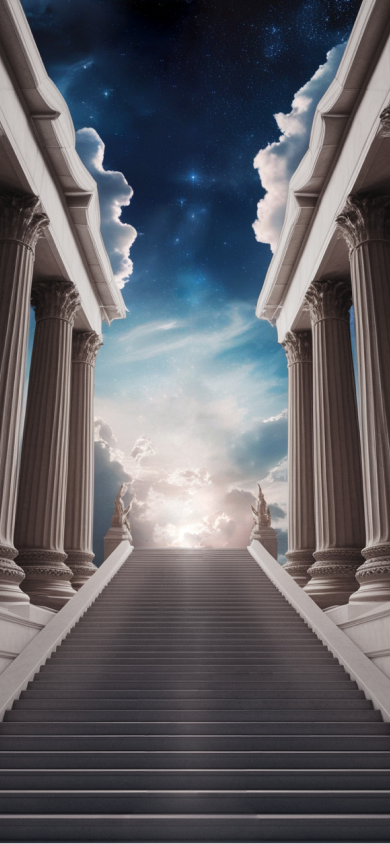
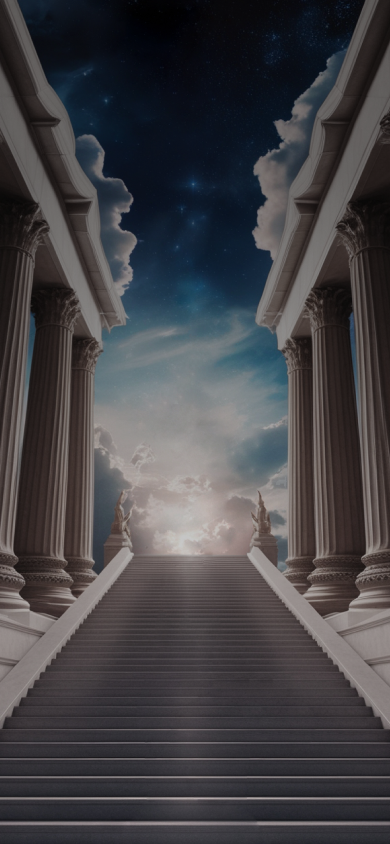
refactor: 랜딩페이지 이미지 변경 - #170

diff --git a/src/pages/Landing/index.tsx b/src/pages/Landing/index.tsx
@@ -59,12 +59,7 @@ const Wrapper = motion(styled.div`
   display: flex;
   flex-direction: column;
   align-items: center;
-  background: linear-gradient(
-      180deg,
-      rgba(0, 0, 0, 0.5) 20.37%,
-      rgba(0, 0, 0, 0) 100%
-    ),
-    url(${landingBg});
+  background: url(${landingBg});
   background-size: cover;
   background-position: center;
   width: 100%;
